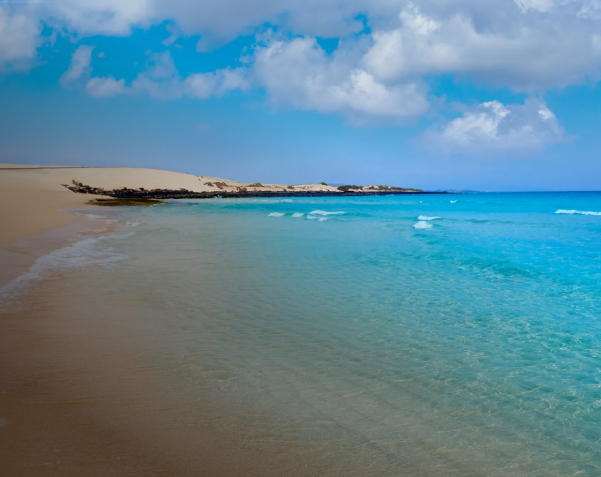
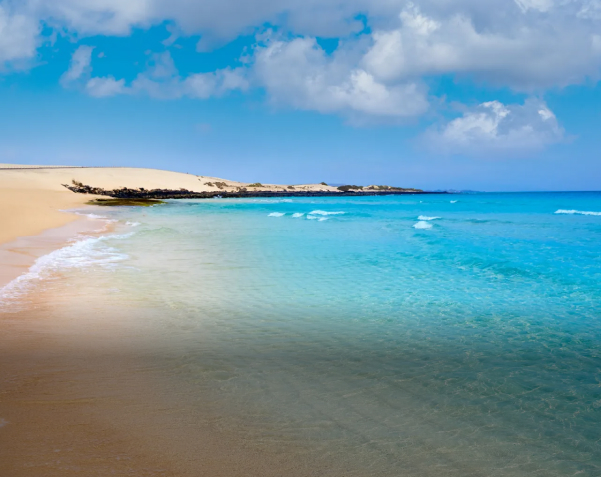
aad sectionces: text, gallery

diff --git a/index.html b/index.html
@@ -57,13 +57,13 @@
                 <img class="about-img" src="figma-export/about-the-island.jpg" alt="">
 
                 <div class="about-content">
-                    <h3 class="about-content-title title-h2">Why visit Gran Canaria?</h3>
+                    <h3 class="title-pink">Why visit Gran Canaria?</h3>
 
                     <p class="about-content-text">Gran Canaria is an island of contrasts. Golden beaches, volcanic
                         mountains, charming villages and year-round warm weather make it one of Europe's most beautiful
                         destinations. </p>
 
-                    <a class="about-content-button" href="">explore</a>
+                    <a class="button-pink" href="">explore</a>
                 </div>
 
             </div>
@@ -77,7 +77,7 @@
             <div class="top-places">
                 <div class="top-places-header">
                     <div class="top-places-title">
-                        <h2>Top places</h2>
+                        <h2 class="title-pink">Top places</h2>
                     </div>
                     <div class="top-places-action">
                         <a href="#">View all →</a>
@@ -87,10 +87,10 @@
                 <div class="top-places-cards">
                     <div class="card">
                         <img src="figma-export/top-places/maspalomas.jpg" alt="Maspalomas Dunes">
-                       
-                            <h3>Maspalomas Dunes</h3>
-                            <p>Golden sand dunes</p>
-                     
+
+                        <h3>Maspalomas Dunes</h3>
+                        <p>Golden sand dunes</p>
+
                     </div>
                     <div class="card">
                         <img src="figma-export/top-places/roque-nublo.jpg" alt="Roque Nublo">
@@ -114,31 +114,67 @@
 
     <section class="experiences">
         <div class="container">
-           
-                <div class="experiences-header">
-                    <h2 class="title-h2">Best Experiences</h2>
+
+            <div class="experiences-header">
+                <h2 class="title-pink">Best Experiences</h2>
+            </div>
+
+            <div class="experiences-cards">
+
+                <div class="card card-one">
+
+                    <h3>Mountain Adventures</h3>
+                    <p>Explore scenic hiking trails through breathaking volcanic landscapes</p>
+                </div>
+                <div class="card card-two">
+
+                    <h3>Crystal Beaches</h3>
+                    <p>Relax on golden sands and swim in the clear turquoise waters </p>
                 </div>
 
-                <div class="experiences-cards">
-                    
-                        <div class="card card-one">
-                            
-                            <h3>Mountain Adventures</h3>
-                            <p>Explore scenic hiking trails through breathaking volcanic landscapes</p>
-                        </div>
-                        <div class="card card-two">
-                            
-                            <h3>Crystal Beaches</h3>
-                            <p>Relax on golden sands and swim in the clear turquoise waters  </p>
-                        </div>
-                    
-                </div>
+            </div>
 
-           
+
         </div>
     </section>
 
-    
+    <section class="background-section">
+
+    </section>
+
+    <section class="text">
+        <div class="container">
+            <div class="text-flex-container">
+                <h2 class="title-pink">An Island of Endless Discovery</h2>
+                <p>Gran Canaria is a place of striking contrasts. In one day, you can walk through golden sand dunes,
+                    swim
+                    in clear Atlantic waters, explore quiet mountain villages and watch the sunset from a volcanic peak.
+                    With its warm climate, colourful towns and diverse landscapes, the island offers something memorable
+                    in
+                    every season.</p>
+                <a href="#" class="button-pink">Discover More</a>
+            </div>
+        </div>
+    </section>
+
+    <section class="gallery">
+        <div class="gallery-background">
+        </div>
+        <div class="container">
+            <h2 class="title-pink">Moments from the Island</h2>
+
+            <div class="gallery-grid">
+                <div class="card card-one"><img src="figma-export/moments/old-town.jpg" alt=""></div>
+                <div class="card card-two"><img src="figma-export/moments/coastal-fiowers.jpg" alt=""></div>
+                <div class="card card three"><img src="figma-export/moments/island -villages.jpg" alt=""></div>
+                <div class="card card-foor"><img src="figma-export/moments/balconi.jpg" alt=""></div>
+                <div class="card card-five"><img src="figma-export/moments/ocean-adventures.jpg" alt=""></div>
+                <div class="card card-six"><img src="figma-export/moments/atlantic-escape.jpg" alt=""></div>
+                
+            </div>
+
+        </div>
+    </section>
 
 
 </body>

diff --git a/style.css b/style.css
@@ -108,9 +108,12 @@ body {
 }
 
 .hero-button{
-    height: 35px;
+    height: 25px;
     width: 290px;
     color: white;
+
+    font-size: 14px;
+    
 
     display: flex;
     justify-content: center;
@@ -155,18 +158,21 @@ body {
     gap: 30px;
 }
 
-.title-h2{
-    font-size: 18px;
+.title-pink{
+    font-family:"Alex Brush", cursive;
+    color: #E506AA;
+    font-size: 32px;
     font-weight: 400;
+    
 }
 
-
+ 
 
 .about-content-text{
     width: 500px;
 }
 
-.about-content-button{
+.button-pink{
     width: 200px;
     height: 25px;
     background: #E506AA;
@@ -202,13 +208,6 @@ body {
     gap: 20px;
 }
 
-.top-places-title h2{
-    font-family: "Alex Brush", cursive;
-    font-weight: 400;
-    font-size: 32px;
-    color: #E506AA;
- 
-}
 
 .top-places-action a{
     color: #333;
@@ -258,12 +257,6 @@ body {
     padding: 20px 0;
 }
 
-.experiences-header h2{
-    font-family: "Alex Brush", cursive;
-    
-    font-size: 32px;
-    color: #E506AA;
-}
 
 .experiences .experiences-cards{
     display: grid;
@@ -273,7 +266,7 @@ body {
 
 .experiences .card{
     width: 100%;
-    height: 350px;
+    height: 450px;
     color: white;
     padding: 30px;
 
@@ -283,12 +276,13 @@ body {
 }
 
 .experiences .card-one{
-    background-image: url("figma-export/best-experiences/MEJORES-PLAYAS.jpg");
+    background-image: url("figma-export/best-experiences/mountains.jpg");
     background-size: cover;
 }
 
 .experiences .card-two{
-    background-image: url("figma-export/best-experiences/mountains.jpg");
+    background-image: url("figma-export/best-experiences/MEJORES-PLAYAS.jpg");
+    background-size: cover;
 }
 
 .experiences .card h3{
@@ -298,4 +292,97 @@ body {
 
 .experiences .card p{
     font-size: 14px;
+}
+
+/* background-section */
+
+.background-section{
+    background-image: url(figma-export/section-big-foto-island.jpg);
+    background-size: cover;
+    background-position: center;
+    background-repeat: no-repeat;
+    width: 100vw;
+    height: 700px;
+
+    margin: 100px 0;
+}
+
+/* text */
+
+.text{
+    padding: 100px 0;
+}
+
+.text-flex-container{
+    
+    display: flex;
+    flex-direction: column;
+    align-items: center;
+    gap: 50px;
+    
+}
+
+.text h2{
+    font-family:"Alex Brush", cursive;
+    color: #E506AA;
+    font-size: 32px;
+}
+
+.text p{
+    max-width: 700px;
+    
+}
+
+/* gallery */
+
+.gallery{
+    padding: 80px 0;
+    position: relative;
+}
+
+.gallery .gallery-background{
+    background: #e4c3dc;
+    width: 100%;
+    height: 300px;
+    padding: 200px;
+
+    position: absolute;
+    left: 0;
+    top: 280px;
+    z-index: 0;
+   
+}
+
+.gallery .container{
+    position: relative;
+    z-index: 1;
+}
+
+.gallery-grid{
+    display: grid;
+    grid-template-columns: repeat(3, 1fr);
+    grid-auto-rows: 300px;
+    gap: 5px;
+}
+
+.gallery .card img{
+    
+    width: 100%;
+    height: 100%;
+    overflow: hidden;
+    object-fit: cover;
+    
+}
+
+.card-one{
+    grid-row: 1 / 3;
+
+}
+
+.card-two{
+    grid-column: 2 / 4;
+}
+
+.card-five{
+    grid-row: 2 / 4;
 }
